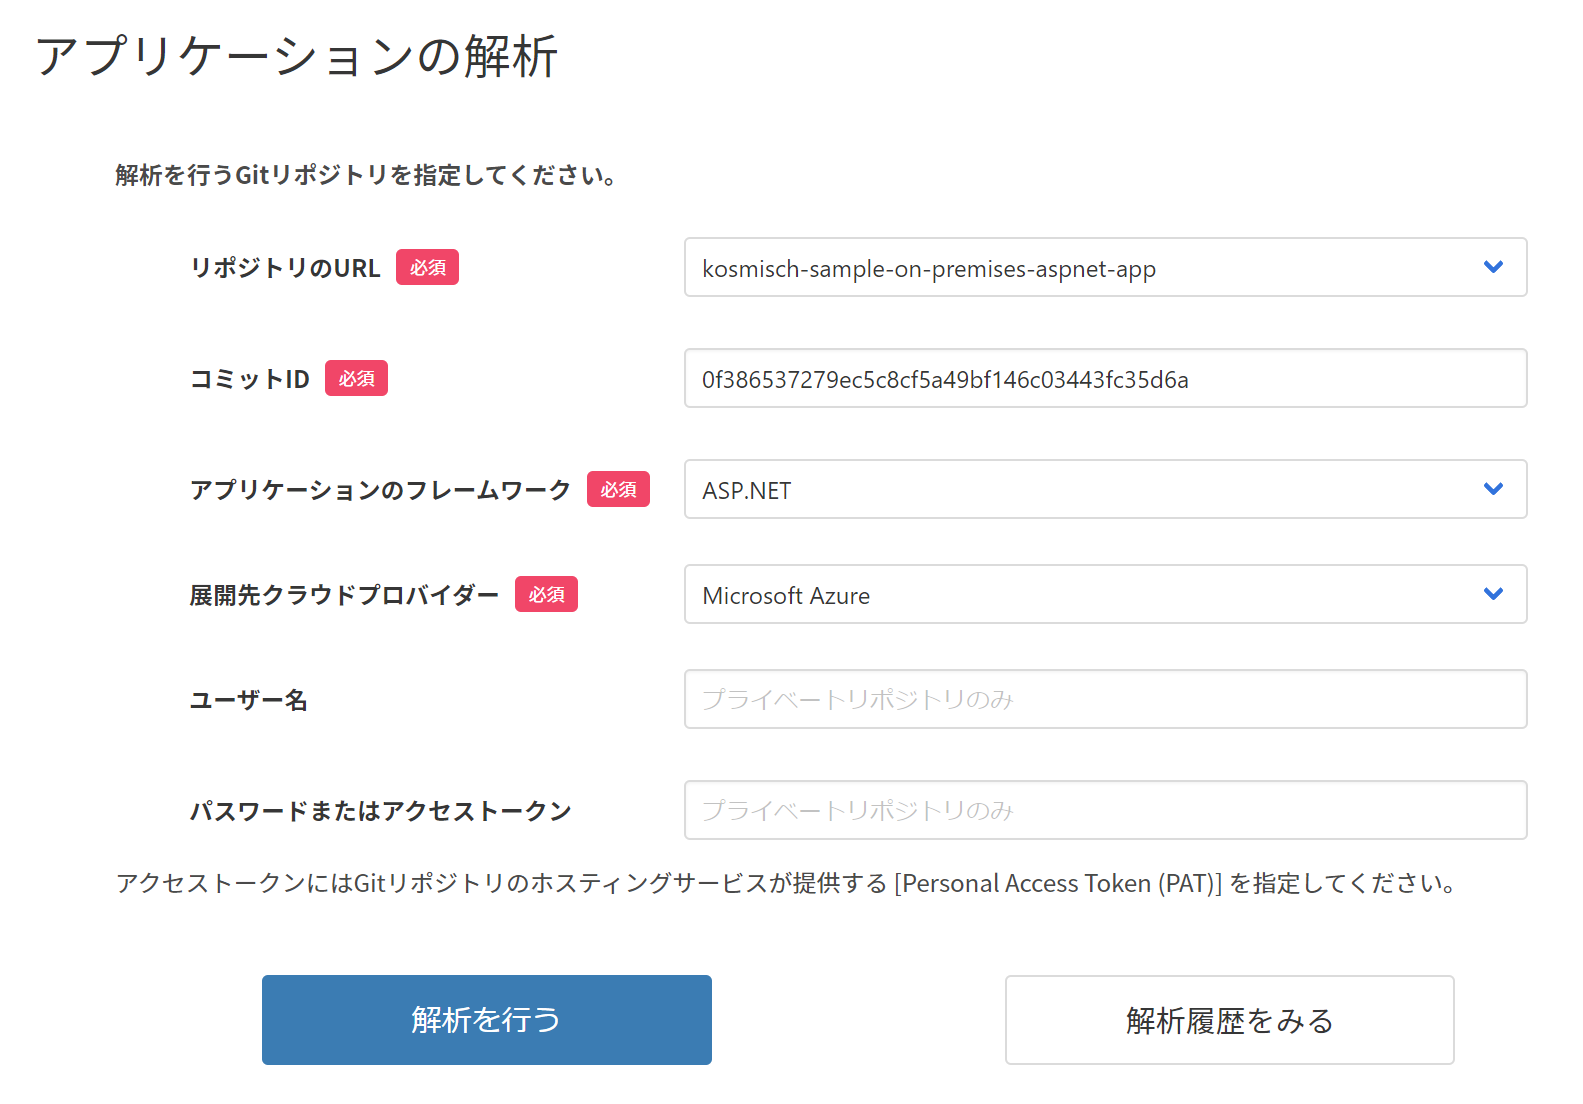
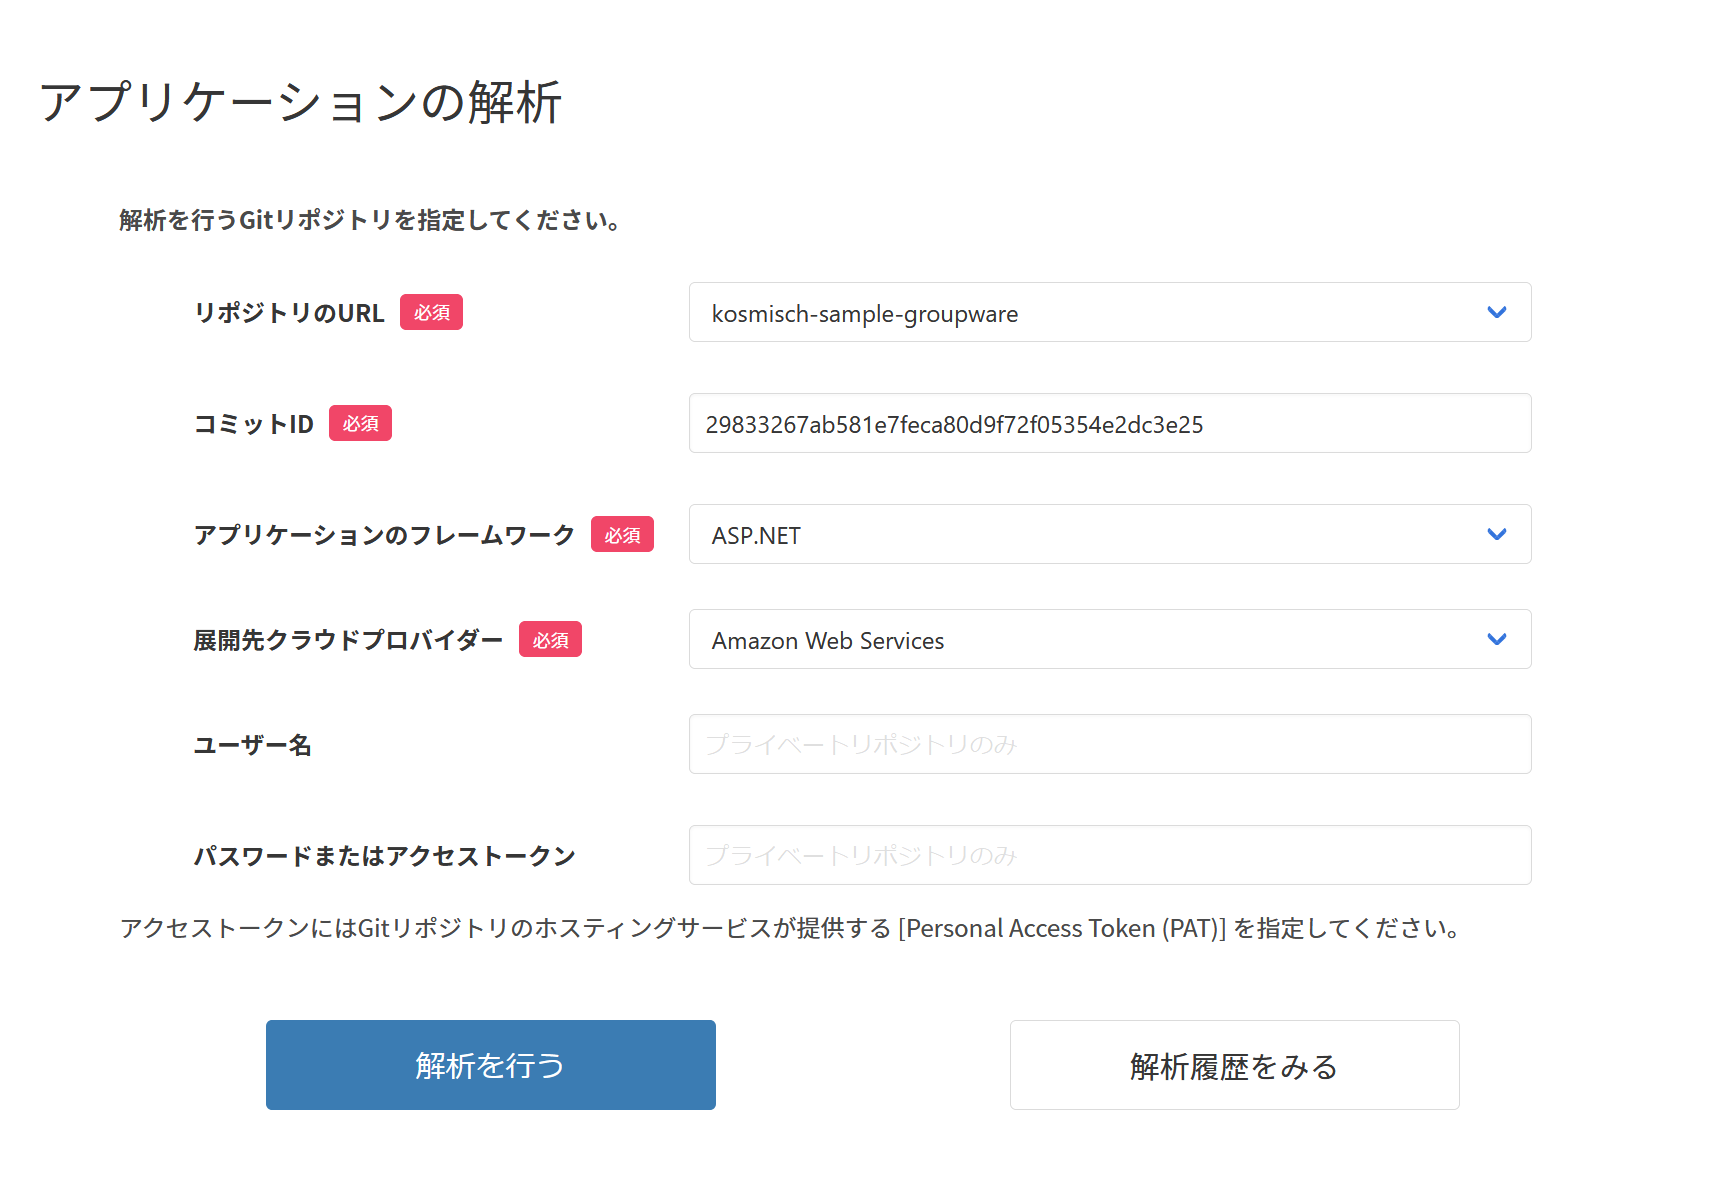
modify documents

diff --git a/docs/analyze-application-by-kosmisch-monolith.md b/docs/analyze-application-by-kosmisch-monolith.md
@@ -44,6 +44,7 @@
     - ユーザー名：入力しない
     - パスワードまたはアクセストークン：入力しない
     - アプリケーションフレームワーク：ASP.NET
+    - 展開先クラウドプロバイダー：Amazon Web Services
 
 ![run-monolith](./img/run-monolith.png)
 
